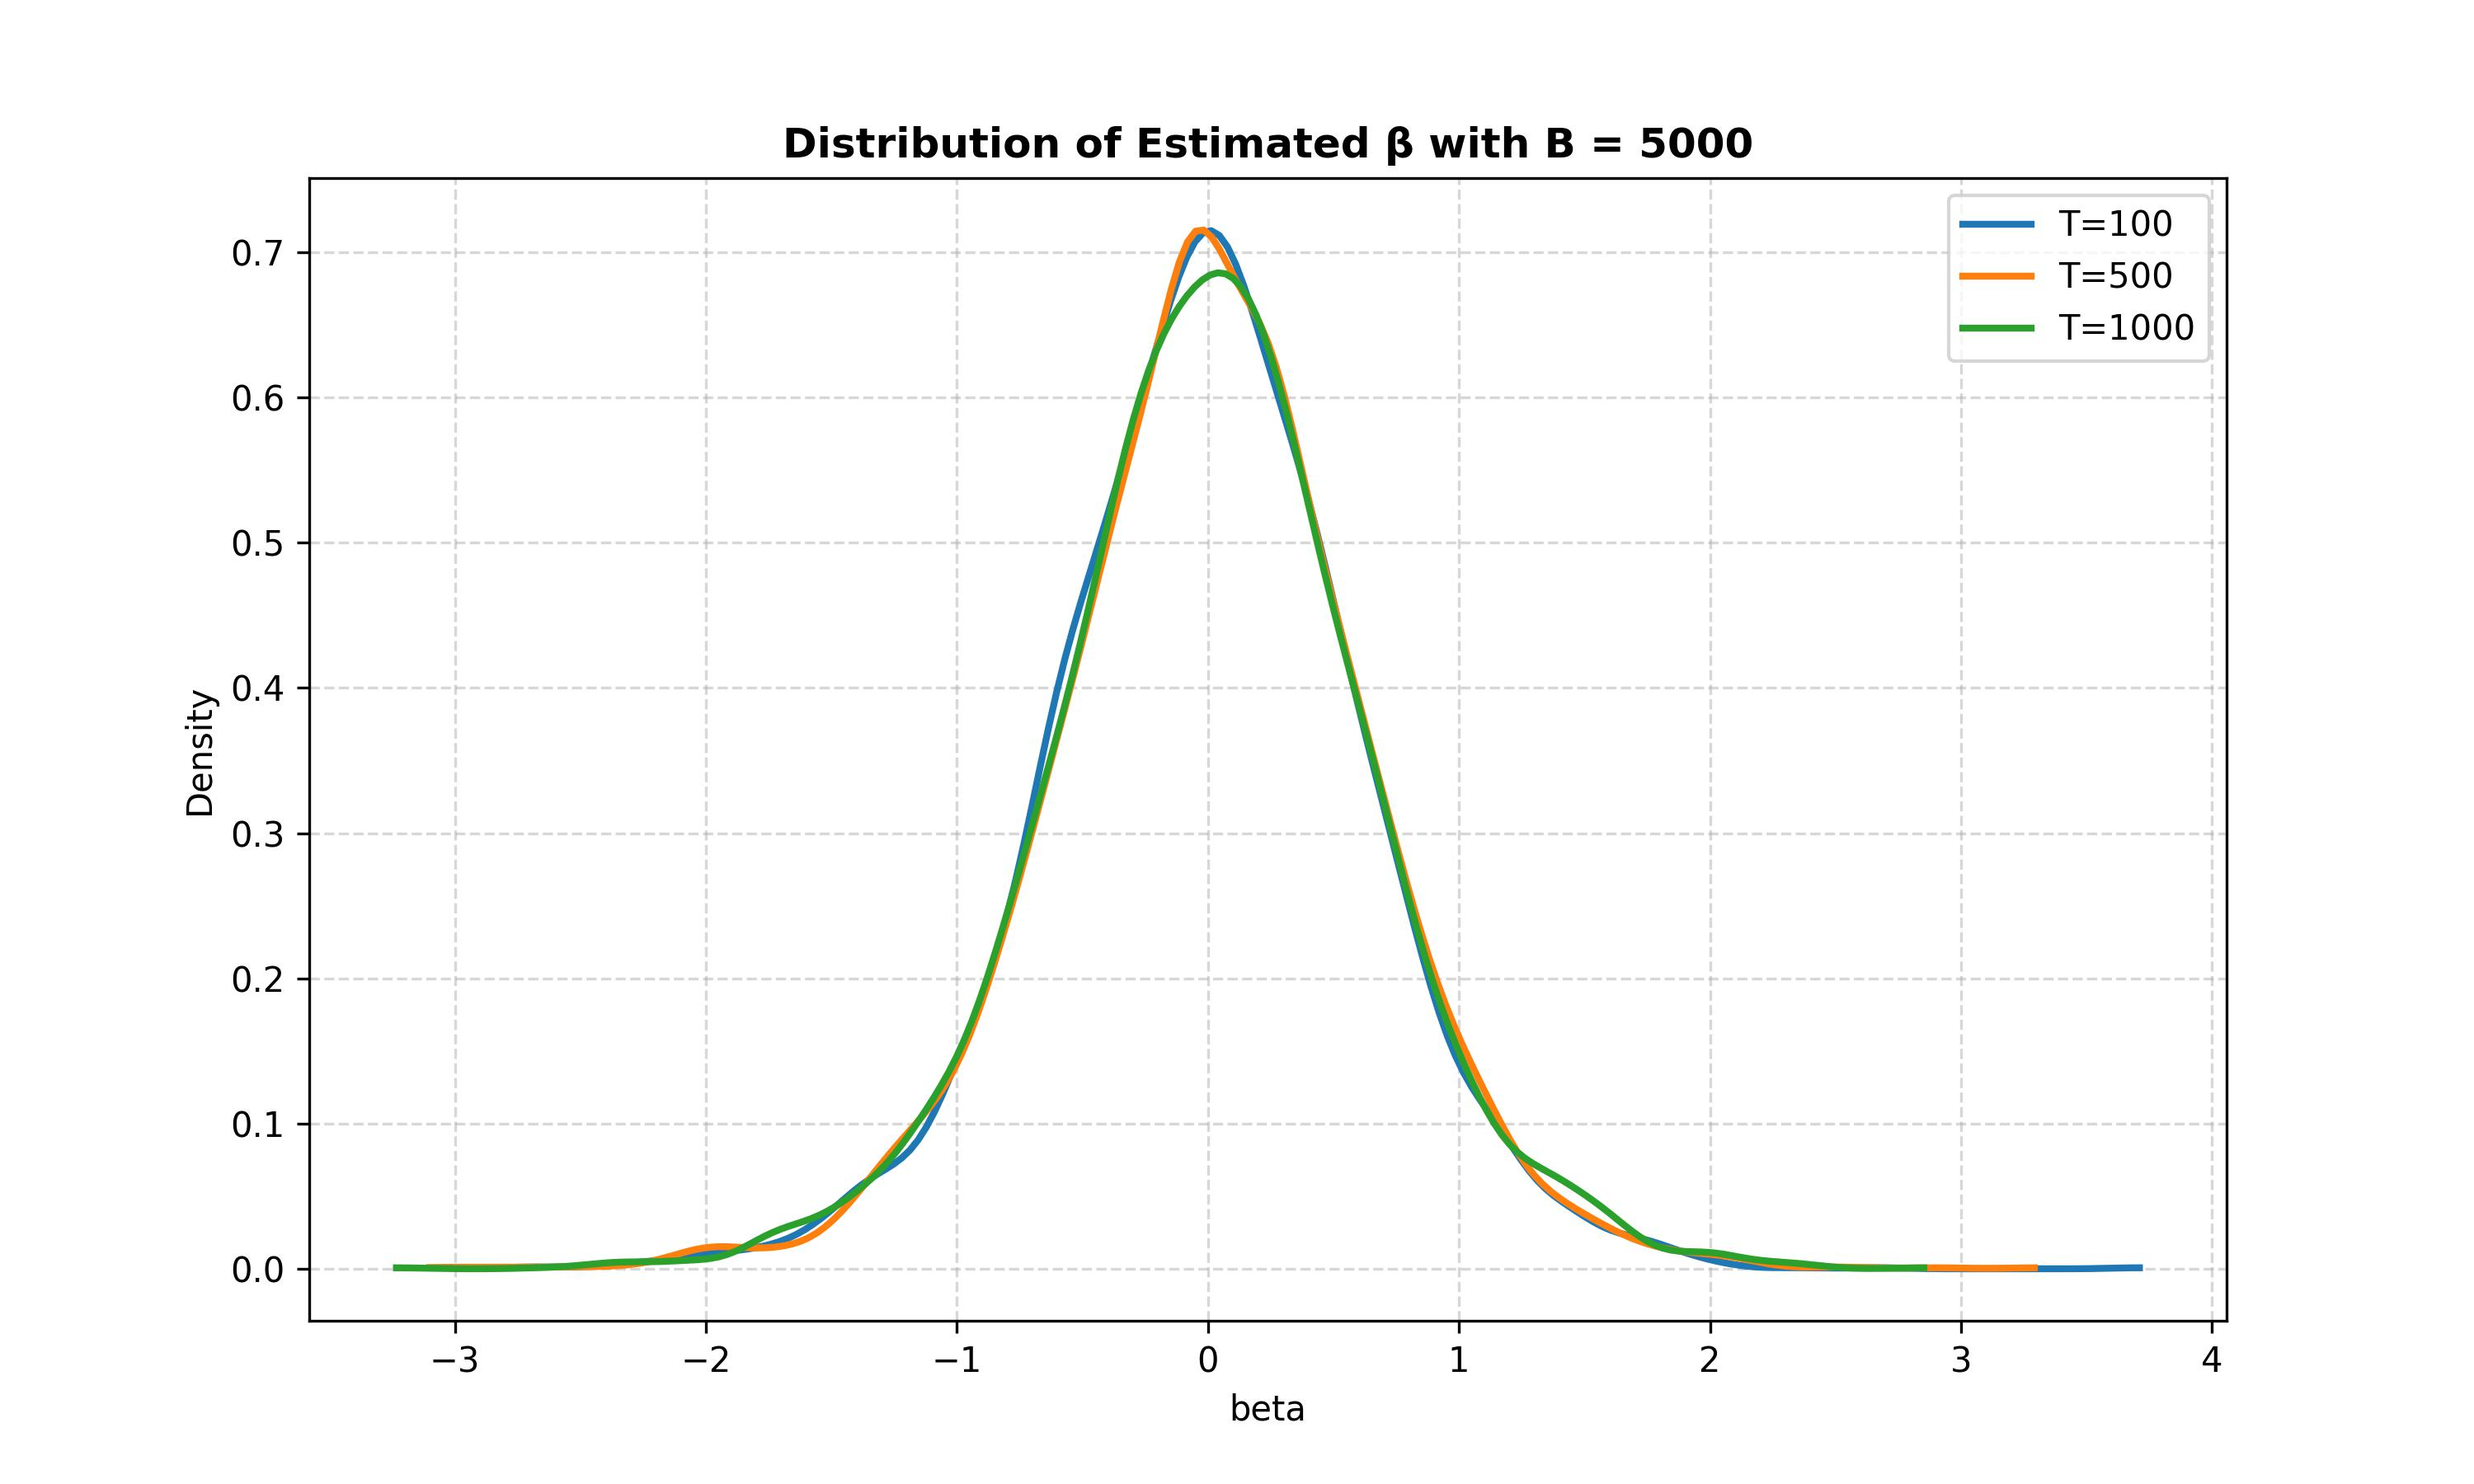
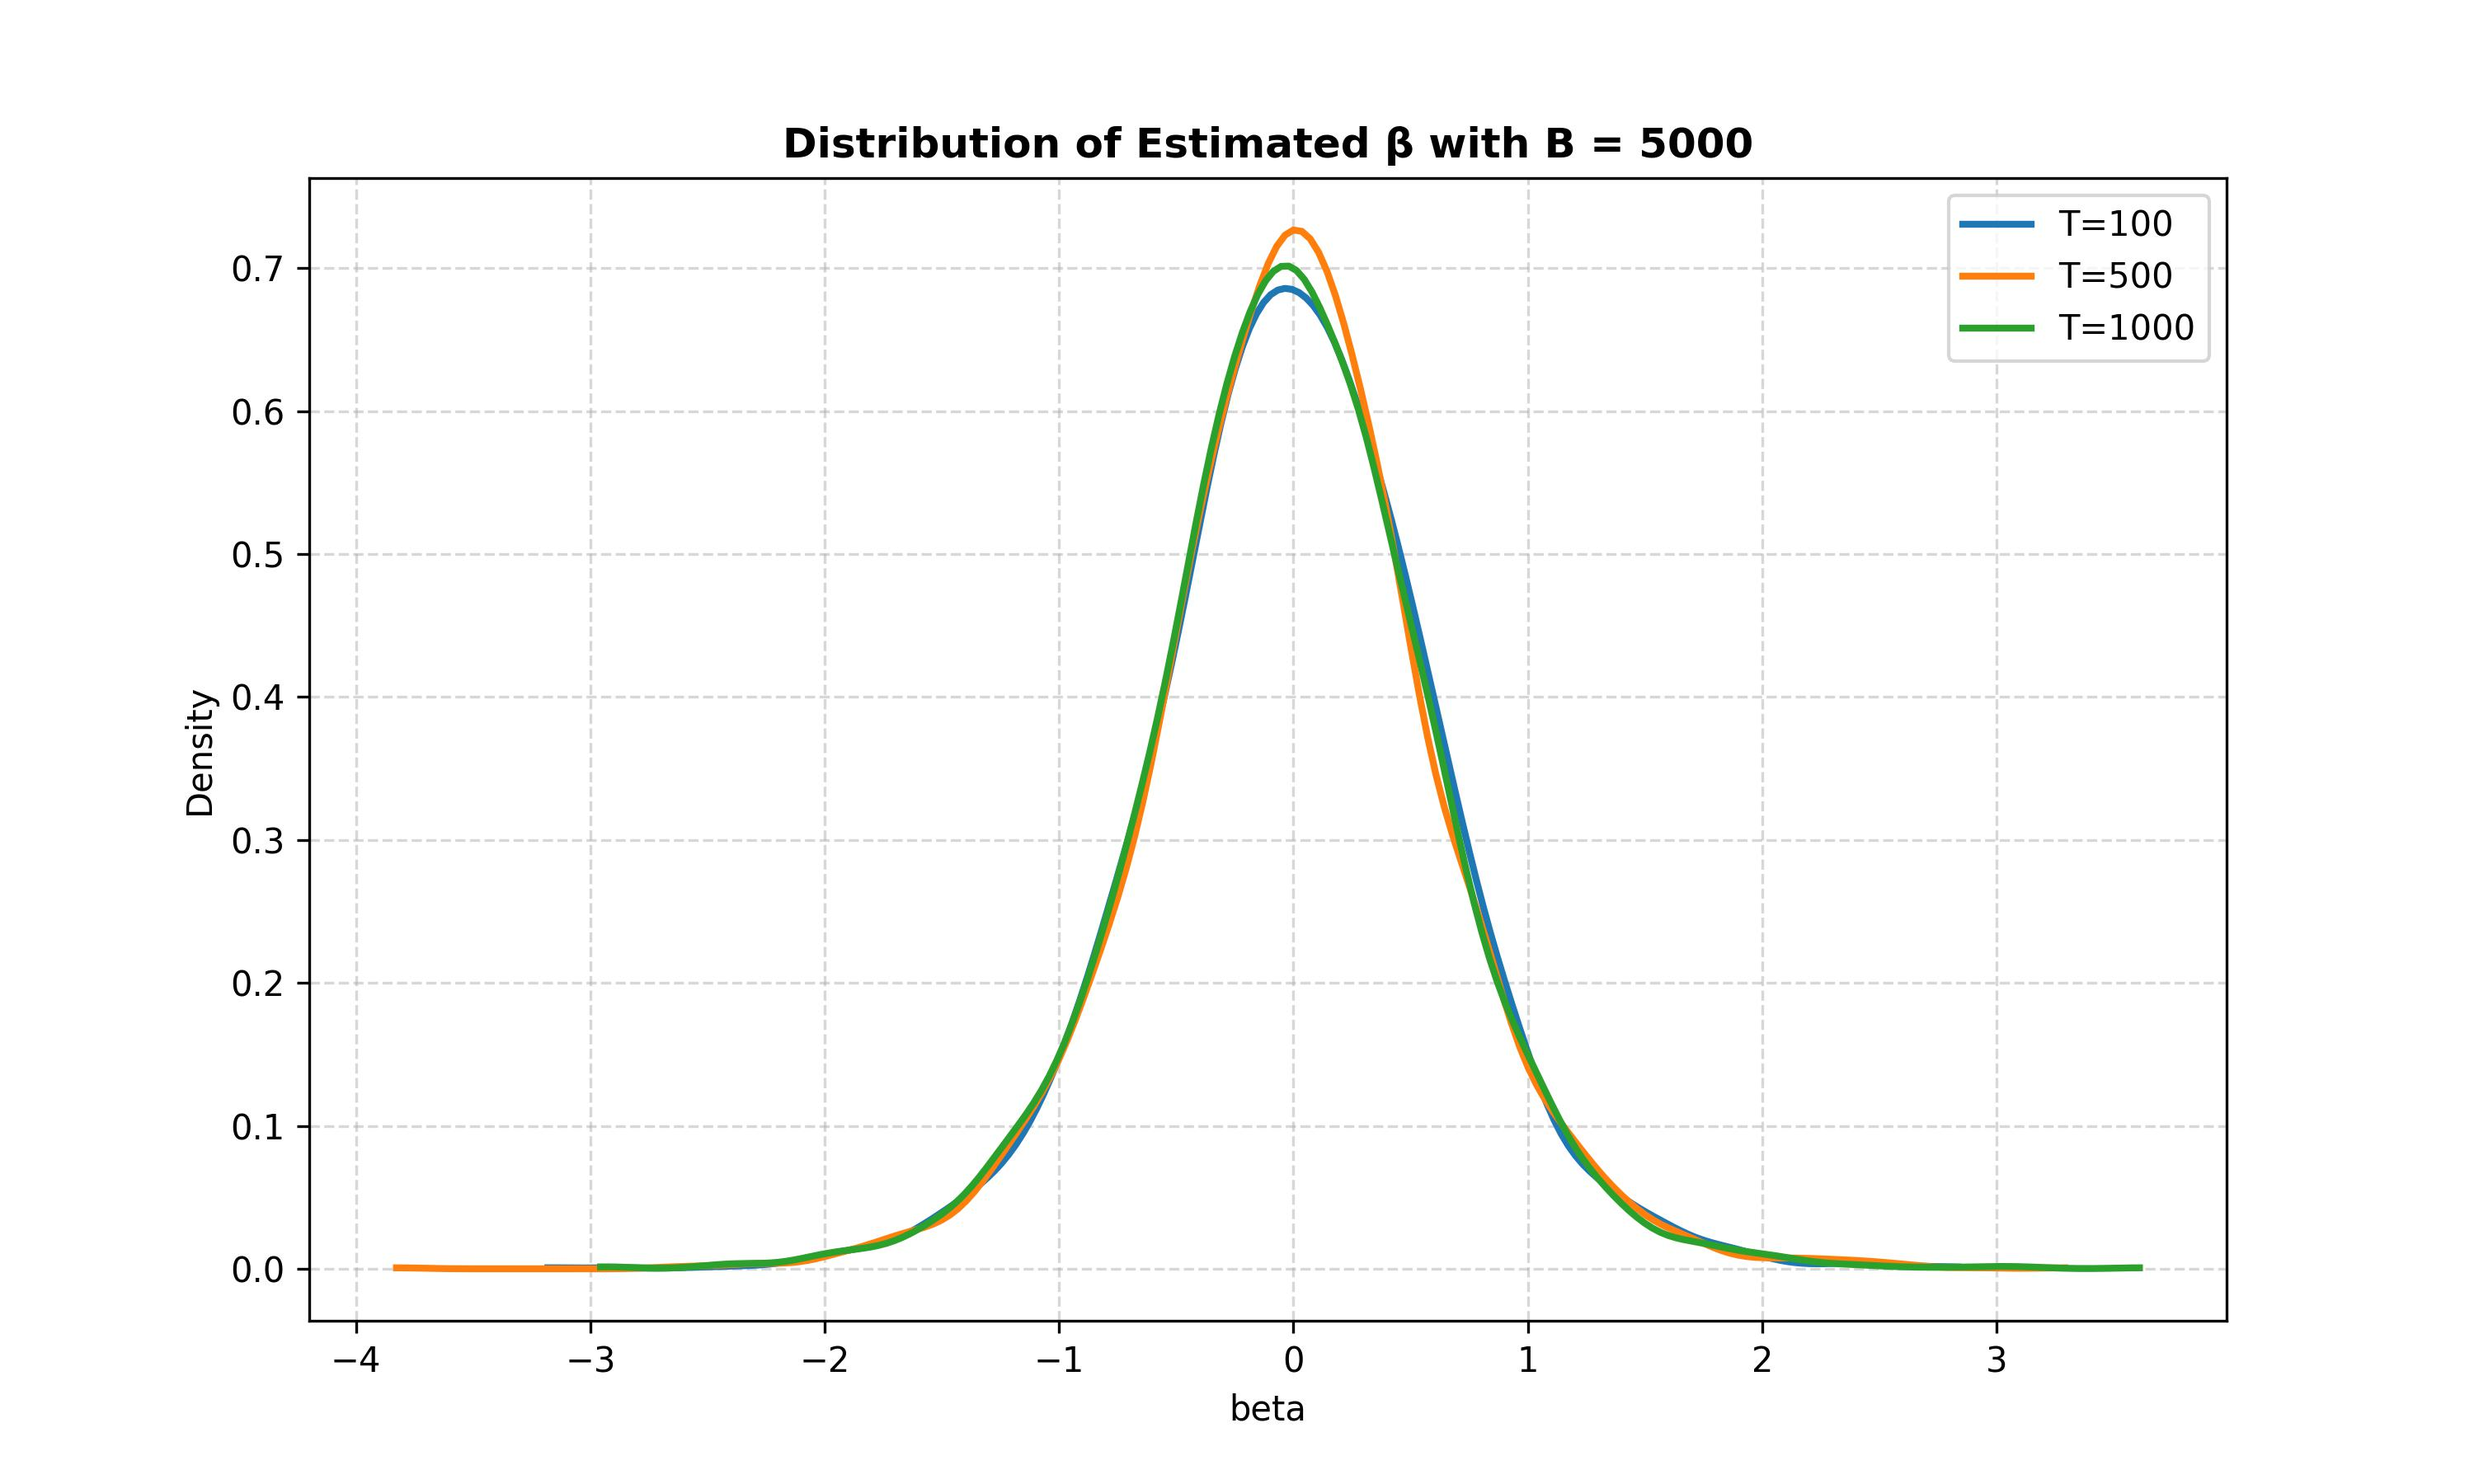
Update some figures and codes
Update some figures and add codes for Part II Question 1.

diff --git a/3/TSDE_A3_Group19.py b/3/TSDE_A3_Group19.py
@@ -1,6 +1,7 @@
 import numpy as np
 import pandas as pd
 import matplotlib.pyplot as plt
+import matplotlib.dates as mdates
 from scipy.stats import norm
 from scipy.stats import gaussian_kde
 from statsmodels.tsa.stattools import adfuller
@@ -187,16 +188,24 @@ msft_stock = part1Data[['DATE','MICROSOFT']]
 msft_stock = msft_stock.set_index('DATE')
 
 def samplePlot(input_sample, input_x, input_title, input_fileName):
+    plot_x = pd.to_datetime(input_x)
+    
     plt.figure(figsize=(10,6))    
-    plt.plot(input_x, input_sample, linewidth = 1, color = 'blue')
+    plt.plot(plot_x, input_sample, linewidth = 1, color = 'blue')
     plt.title(input_title, fontweight='bold')
     plt.xlabel('Time')
-    plt.ylabel('Daily Stock Price')
+    plt.ylabel('Daily Stock Price')    
+    
+    # Set 6-month ticks on the x-axis
+    plt.gca().xaxis.set_major_locator(mdates.MonthLocator(interval=6))
+    plt.gca().xaxis.set_major_formatter(mdates.DateFormatter('%Y-%m'))
+
+    # Auto-format date labels (avoid overlapping)
+    plt.gcf().autofmt_xdate()
+
     plt.savefig(f'../3/figures/{input_fileName}.jpeg', dpi=300)
     plt.show()
     
-trading_days = pd.DatetimeIndex(part1Data['DATE'])
-
 graphTitle = 'APPLE stock time series'
 fileName = '2_aapl'
 samplePlot(aapl_stock, part1Data['DATE'], graphTitle, fileName)
@@ -364,3 +373,101 @@ for sNumber, stock in enumerate(stock_list):
   
 stock_df = stock_df.set_index('Stock_ID')  
 print(stock_df)
+
+'''
+Part II: Cointegration and Error Correction Models
+'''
+
+# Question 1
+
+def monteCarlo_Cointegrated(input_B, input_t, input_phi, input_corr):
+    this_beta_list = []
+    this_t_list = []
+    this_RSquare_list = []
+    this_lambda_list = []
+    
+    for i in range(0, input_B):
+        v_t = np.random.normal(loc=0, scale=1, size=input_t+1)
+        w_t = np.random.normal(loc=0, scale=1, size=input_t+1)
+    
+        this_x_list = []
+        this_x_list.append(0)
+        this_y_list = []
+
+        for j in range(1, time+1):
+            x_t = input_phi * this_x_list[j-1] + v_t[j]
+            this_x_list.append(x_t)
+            y_t = input_corr * this_x_list[j] + w_t[j]
+            this_y_list.append(y_t)
+            
+        this_x_list.pop(0)
+        
+        matrix_X, estimate_beta, hat_y, hat_residuals = runRegressionModel(this_y_list, this_x_list)
+        
+        estimate_SE = getStandardError(matrix_X, hat_residuals)
+        t_statistic = (estimate_beta.iat[1,0] - input_corr) / estimate_SE[1]
+        rSquare = getRSquare(hat_residuals.squeeze(), this_y_list)                
+
+        this_beta_list.append(estimate_beta.iat[1, 0])
+        this_t_list.append(t_statistic)
+        this_RSquare_list.append(rSquare)
+        
+        estimate_lambda = estimate_beta.iat[1,0]
+        this_lambda_list.append(estimate_lambda)
+    
+    return this_beta_list, this_t_list, this_RSquare_list, this_lambda_list
+
+phi_list = [1, 0.5, 0.25]
+
+for phi in phi_list:
+    beta_x_list = []
+    beta_density_list = []
+    t_x_list = [] 
+    t_density_list = []
+    rSquare_x_list = []
+    rSquare_density_list = []
+    
+    lambda_x_list = []
+    lambda_density_list = []
+    
+    for time in time_list:
+        corr = 0.5
+        
+        this_beta_list, this_t_list, this_RSquare_list, this_lambda_list = monteCarlo_Cointegrated(numberOfSimulations_B, time, phi, corr)
+            
+        beta_x, beta_density = getKernelDensity(this_beta_list)
+        beta_x_list.append(beta_x)
+        beta_density_list.append(beta_density)
+        
+        t_x, t_density = getKernelDensity(this_t_list)
+        t_x_list.append(t_x)
+        t_density_list.append(t_density)
+        
+        rSquare_x, rSquare_density = getKernelDensity(this_RSquare_list)
+        rSquare_x_list.append(rSquare_x)
+        rSquare_density_list.append(rSquare_density)
+    
+        lambda_x, lambda_density = getKernelDensity(this_lambda_list)
+        lambda_x_list.append(lambda_x)
+        lambda_density_list.append(lambda_density)
+    
+    if phi == 1:
+        graphTitle = f'Distribution of Estimated β with cointegrating vector (1,{-corr})'
+        fileName = f'5_MC_pdf_beta_phi_{phi}'
+        xName = 'beta'
+        distributionPlot(beta_x_list, beta_density_list, time_list, xName, graphTitle, fileName)
+
+        graphTitle = f'Distribution of Estimated t-statistics with cointegration vector (1,{-corr})'
+        fileName = f'5_MC_pdf_t_phi_{phi}'
+        xName = 't'
+        distributionPlot(t_x_list, t_density_list, time_list, xName, graphTitle, fileName)
+
+        graphTitle = f'Distribution of Estimated R^2 with cointegration vector (1,{-corr})'
+        fileName = f'5_MC_pdf_RSquare_phi_{phi}'
+        xName = 'R^2'
+        distributionPlot(rSquare_x_list, rSquare_density_list, time_list, xName, graphTitle, fileName)
+    
+    graphTitle = f'Distribution of Estimated λ with ɸ = {phi}'
+    fileName = f'5_MC_pdf_lambda_phi_{phi}'
+    xName = 'lambda'
+    distributionPlot(lambda_x_list, lambda_density_list, time_list, xName, graphTitle, fileName)
